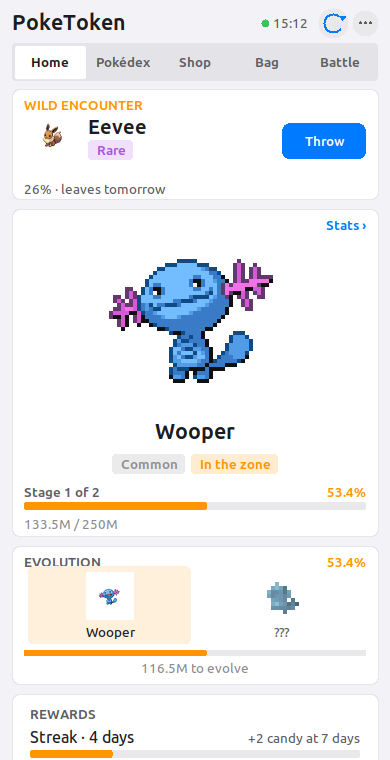
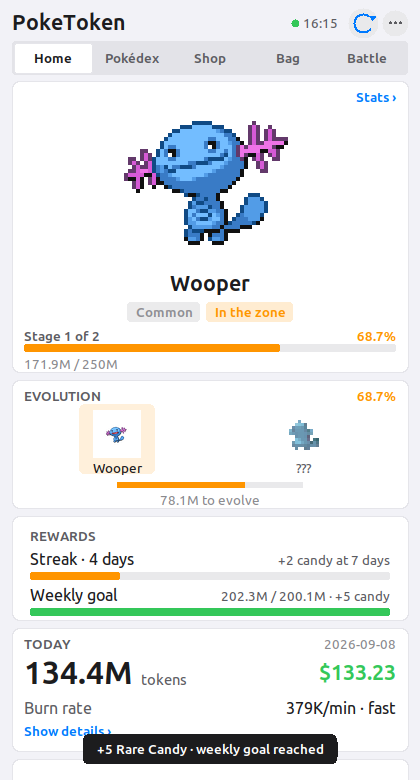
Hero sprite: size the box from the art, not the other way round
Pixel art is only ever scaled by whole numbers, so a 96 px box with 12 px padding left a
43 px Wooper at 1x, marooned in empty space — the box was chosen first and the art had to
fit inside it. The box is now the art's own size times the largest whole factor the card
can spare, plus 4 px on a compact viewport: the same window that drew a 43 px sprite now
draws it at 94-137 px, and a taller one reaches 180 px.

Compact viewports also give back a little height (tabs, footer, reward rows, evolution
spacing, hero gaps) so the companion, its evolution, rewards and today's usage still share
the first screen at the larger art size.

diff --git a/poketoken/ui.py b/poketoken/ui.py
@@ -209,6 +209,8 @@ class PokeWindow:
         self.bp = "sm"                              # its breakpoint: xs | sm | md | lg
         self.show_details = False                   # Home telemetry disclosure on narrow viewports
         self._tips: dict[str, str] = {}             # tooltip text by canvas tag
+        self._natural: dict[str, tuple[int, int]] = {}   # visible size of a sprite file, cached
+        self.sprite_art_pad = SPRITE_PAD            # breathing room around the art in its box
         self.settled_geometry: str | None = None   # set from <Configure>, i.e. after the WM applied it
         self.poll_job = self.periodic_job = None
         self.refresh_again = False
@@ -763,8 +765,8 @@ class PokeWindow:
         self.sync_right = cx - r - (10 if self.narrow else 14)
         self.sync_cy = cy
         self._draw_sync(w)
-        y = brand_bottom + (8 if self.narrow else 10)
-        return self.draw_tabs(y, w) + (8 if self.narrow else 10)
+        y = brand_bottom + (6 if self.narrow else 10)
+        return self.draw_tabs(y, w) + (6 if self.narrow else 10)
 
     def draw_tabs(self, y, w) -> int:
         """The five destinations stay directly reachable at every width (§3); only the height and
@@ -772,7 +774,7 @@ class PokeWindow:
         pad = 12 if self.narrow else 16
         segw = min(w - 2 * pad, 640)
         x = (w - segw) / 2
-        h = 38 if is_touch(w) else 32
+        h = (34 if self.narrow else 38) if is_touch(w) else 32
         self.rrect(x, y, x + segw, y + h, RADIUS["control"], fill="seg")
         n = len(TABS)
         each = (segw - 4) / n
@@ -939,17 +941,45 @@ class PokeWindow:
         remaining = f"{fmt.compact(comp.tokens_to_next)} to " + ("graduate" if comp.is_final_stage else "evolve")
         return self.draw_evo_line(y, x0, cw, items, lambda cid: comp.line.name(cid, s.language), accent,
                                   clickable=False, progress=comp.progress, remaining=remaining)
+    def _natural_size(self, path) -> tuple[int, int]:
+        """The visible (cropped) size of a sprite file, cached. Pixel art is only ever scaled by
+        whole numbers, so the box has to be chosen from this or the art sits marooned in padding."""
+        if not path:
+            return (48, 48)
+        key = str(path)
+        if key not in self._natural:
+            try:
+                im = Image.open(path)
+                box = union_bbox([f.convert("RGBA") for f in ImageSequence.Iterator(im)])
+            except (OSError, ValueError):
+                box = None
+            self._natural[key] = (box[2] - box[0], box[3] - box[1]) if box else (48, 48)
+        return self._natural[key]
+
+    def _hero_path(self):
+        s = self.app.companion.state
+        paths = (self.payload or {}).get("paths", {})
+        if s.active is None:
+            return paths.get("egg")
+        return (paths.get(("anim", s.active.current_id, s.active.shiny_visible))
+                or paths.get(("static", s.active.current_id, s.active.shiny_visible)))
+
     def _hero_chrome(self) -> float:
         """The hero card's height without the sprite: name, pills, the progress rows, padding."""
-        return (self.pad - 4) + 2 + self.F["title"].metrics("linespace") + 10 + 30 + 18 + 14 + 20
+        tight = self.narrow
+        return ((self.pad - 4) + 2 + self.F["title"].metrics("linespace") + (6 if tight else 10)
+                + (26 if tight else 30) + (16 if tight else 18) + (12 if tight else 14) + (16 if tight else 20))
 
     def _hero_sprite(self, cw) -> int:
-        """The sprite fills the space the card can spare. On a narrow screen that means the
-        companion, its evolution, rewards and today's usage all fit the first screen: the sprite
-        gives up height to them rather than pushing them below the fold (§4)."""
+        """The sprite fills the space the card can spare, and the box hugs the art: the size is
+        the art's own size times the largest whole number that fits, plus a little padding. On a
+        narrow screen the budget is what is left once the evolution track, rewards and today's
+        usage have their room, so all four share the first screen (§4, §11)."""
         pad = self.pad
+        art_pad = self.sprite_art_pad = 4 if self.narrow else SPRITE_PAD
+        nat = max(self._natural_size(self._hero_path()))
         cap = 200 if self.narrow else self.sprite_box
-        size = max(120, min(self.sprite_box, cap, int(cw - 2 * pad)))
+        size = max(96, min(self.sprite_box, cap, int(cw - 2 * pad)))
         if not self.narrow:
             return int(size)
         comp = self.app.companion
@@ -960,9 +990,11 @@ class PokeWindow:
         others = self._rewards_height() + self._today_height() + 3 * self.stack_gap
         if comp.state.active and comp.line:
             others += L.evo_rows(pad, self.F["captionB"].metrics("linespace"),
-                                 SPRITE["card"] + 8, True)["height"]
-        budget = vh - getattr(self, "content_top", 90) - 28 - others - self._hero_chrome()
-        return int(max(96, min(size, budget)))
+                                 SPRITE["card"] + 8, True, tight=True)["height"]
+        budget = vh - getattr(self, "content_top", 90) - self._footer_h() - others - self._hero_chrome()
+        room = max(nat, min(size, budget) - 2 * art_pad)      # art space the card can spare
+        scale = max(1, int(room // nat))
+        return int(nat * scale + 2 * art_pad)
 
     def draw_hero(self, y, x0, cw) -> int:
         """The companion: the largest thing on the page at every width. The sprite container is
@@ -992,7 +1024,7 @@ class PokeWindow:
             self.text(x0 + cw / 2 + tw / 2, cy + 3, "✦", "title2", "yellow", anchor="ne")
         else:
             self.text(x0 + cw / 2, cy, name, name_font, "label", anchor="n")
-        cy += self.F[name_font].metrics("linespace") + 10
+        cy += self.F[name_font].metrics("linespace") + (6 if self.narrow else 10)
         pills = []
         if s.active:
             a = s.active
@@ -1004,7 +1036,7 @@ class PokeWindow:
         px = x0 + cw / 2 - total / 2
         for t, colr in pills:
             px += self.pill(px, cy, t, colr) + 6
-        cy += 30
+        cy += 26 if self.narrow else 30
         if s.active:
             left = f"Stage {s.active.stage_index + 1} of {s.active.total_forms}"
             frac = comp.progress
@@ -1015,9 +1047,9 @@ class PokeWindow:
             used, goal = s.egg_usage, C.EGG_HATCH_THRESHOLD
         self.text(x0 + pad, cy, left, "captionB", "secondary")
         self.text(x0 + cw - pad, cy, fmt.percent(frac * 100), "captionB", accent, anchor="ne")
-        cy += 18
+        cy += 16 if self.narrow else 18
         self.capsule(x0 + pad, cy, cw - 2 * pad, 8, frac, accent)
-        cy += 14
+        cy += 12 if self.narrow else 14
         self.text(x0 + pad, cy, f"{fmt.compact(used)} / {fmt.compact(goal)}", "caption", "tertiary")
         # the remainder belongs to the evolution card; an egg has none, so it says it here
         if s.active is None:
@@ -1025,7 +1057,7 @@ class PokeWindow:
         if not s.install_baseline_set:
             cy += 16
             self.text(x0 + pad, cy, "waiting for the first usage reading", "caption", "tertiary")
-        cy += 20
+        cy += 16 if self.narrow else 20
         self.fit_card(card, x0, y, cw, cy - y)
         return cy
     def draw_today(self, y, x0, cw) -> int:
@@ -1131,7 +1163,7 @@ class PokeWindow:
         return 8 if self.narrow else GAP
 
     def _reward_row_h(self) -> int:
-        return 40 if self.narrow else 44
+        return 36 if self.narrow else 44
 
     def _rewards_height(self) -> int:
         """Kept beside draw_rewards so the hero can budget for it before either is drawn."""
@@ -1399,7 +1431,7 @@ class PokeWindow:
         sprite = SPRITE["line"] if not self.narrow else SPRITE["card"] + 8
         has_track = progress is not None
         # measured, not guessed: the row sits below the label, so the highlight cannot cover it
-        m = L.evo_rows(pad, self.F["captionB"].metrics("linespace"), sprite, has_track)
+        m = L.evo_rows(pad, self.F["captionB"].metrics("linespace"), sprite, has_track, tight=self.narrow)
         h = m["height"]
         self.card(x0, y, cw, h)
         self.text(x0 + pad, y + m["label_top"], "EVOLUTION", "captionB", "secondary")
@@ -2252,11 +2284,14 @@ class PokeWindow:
         self.c.bind("<Button-3>", self._show_menu)
         return y + 20
 
+    def _footer_h(self) -> int:
+        return 22 if self.narrow else 28
+
     def draw_footer(self, y, x0, cw) -> int:
         """Product status only. Build details live in the ⋯ menu under About (§16)."""
-        self.text(x0 + cw / 2, y + 6, f"auto-refresh every {self.interval} s", "caption", "tertiary", anchor="n")
+        self.text(x0 + cw / 2, y + 4, f"auto-refresh every {self.interval} s", "caption", "tertiary", anchor="n")
         self.c.bind("<Button-3>", self._show_menu)
-        return y + 28
+        return y + self._footer_h()
     # ------------------------------------------------------------- animation
     def _start_sprite_animation(self) -> None:
         if self.sprite_item is None:
@@ -2306,7 +2341,7 @@ class PokeWindow:
         if bbox is None:
             return
         w, h = bbox[2] - bbox[0], bbox[3] - bbox[1]
-        target = box // 2 if self.sprite_subject[0] == "egg" else box - 2 * SPRITE_PAD
+        target = box // 2 if self.sprite_subject[0] == "egg" else box - 2 * self.sprite_art_pad
         scale = fit_scale(w, h, target)
         for fr, dur in raw:
             crop = fr.crop(bbox)

diff --git a/poketoken/layout.py b/poketoken/layout.py
@@ -73,18 +73,18 @@ def masonry(heights: list[float], cols: int, pinned: dict[int, int] | None = Non
 
 
 def evo_rows(pad: float, label_h: float, sprite: float, has_track: bool,
-             gap: float = 8.0, lift: float = 6.0) -> dict:
+             gap: float = 8.0, lift: float = 6.0, tight: bool = False) -> dict:
     """Vertical geometry of the evolution row, relative to the card's top edge. Everything is
     derived from the measured label height so the highlight behind the current form can never
     start above the label's baseline box and paint over it."""
     label_top = pad - 4
     label_bottom = label_top + label_h
-    row_top = label_bottom + gap                 # sprites start here
+    row_top = label_bottom + (gap - 2 if tight else gap)   # sprites start here
     highlight_top = row_top - lift               # the highlight is lifted, but never past the label
-    name_top = row_top + sprite + 4              # the species name under the sprite
-    row_bottom = name_top + 18
+    name_top = row_top + sprite + (2 if tight else 4)      # the species name under the sprite
+    row_bottom = name_top + (16 if tight else 18)
     track_top = row_bottom + 6 if has_track else None
-    height = (row_bottom + (30 if has_track else 0)) + pad - 6
+    height = (row_bottom + ((26 if tight else 30) if has_track else 0)) + pad - 6
     return {"label_top": label_top, "label_bottom": label_bottom, "row_top": row_top,
             "highlight_top": highlight_top, "highlight_bottom": row_bottom - 2,
             "name_top": name_top, "row_bottom": row_bottom, "track_top": track_top, "height": height}
